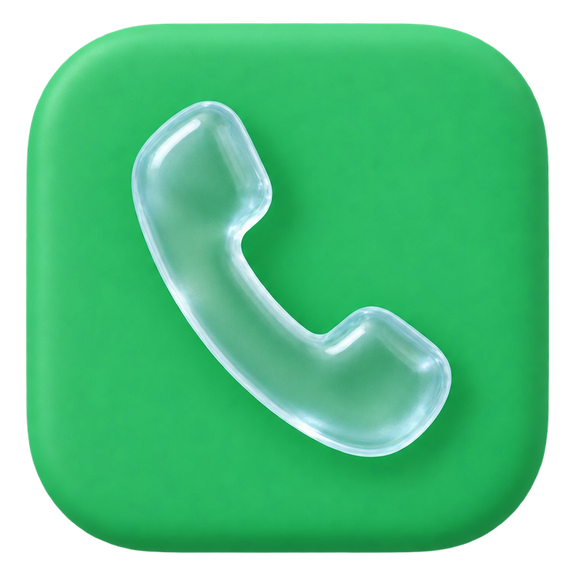
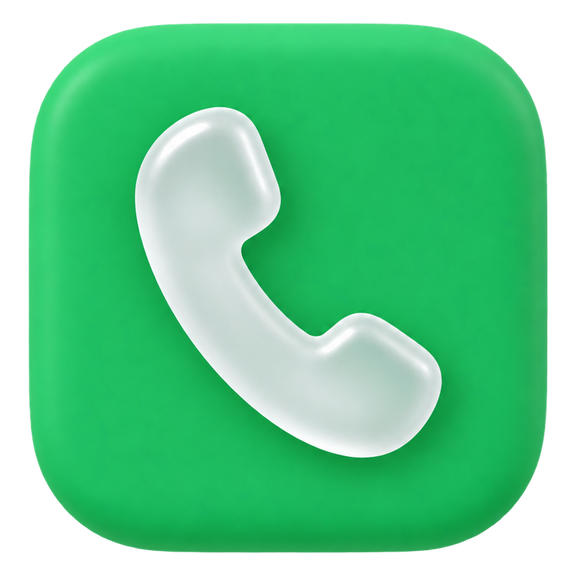
사회복지사란? 상담 상자 경계를 원래 사이트처럼: 경계에 밝은 파란 선, PC 상담 카드는 경계에서 80px 아래부터 · 전화 아이콘 수화기를 흰 서리유리로

diff --git a/src/styles/social-worker-landing.css b/src/styles/social-worker-landing.css
@@ -364,3 +364,8 @@
 @media (max-width: 480px) {
   .mobile-social-worker-banner .swl { margin-top: 56px; }
 }
+
+/* 랜딩 아래 상담 상자와의 경계: 밝은 파란 선(+ 표시 위로 지나감)과, PC 상담 카드를 경계에서 80px 아래부터 — 원래 사이트 모습과 같게 */
+.swl-inner::after { content: ""; position: absolute; z-index: 2; left: 0; right: 0; top: 100%; height: calc(3 * var(--u)); background: #4597f7; }
+.page-header-banner > .swl ~ .consultation-options-outer-wrapper .consultation-options-content { padding-top: 115px; }
+.page-header-banner:has(> .swl) { padding-bottom: 475px; }
